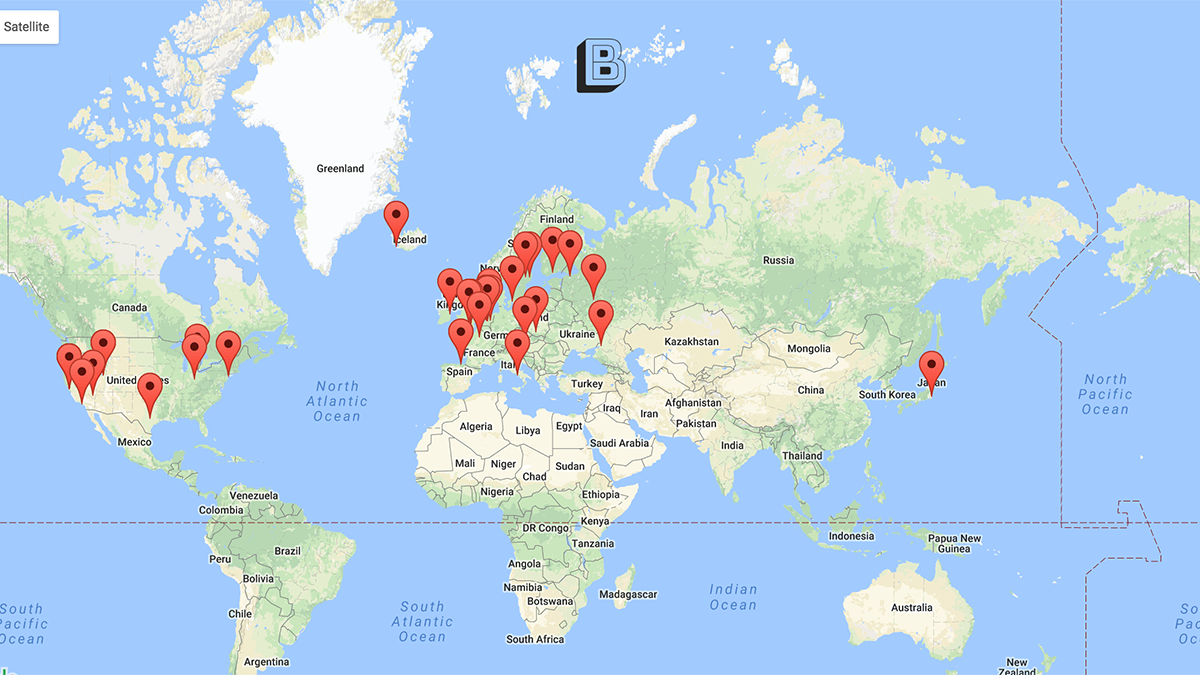
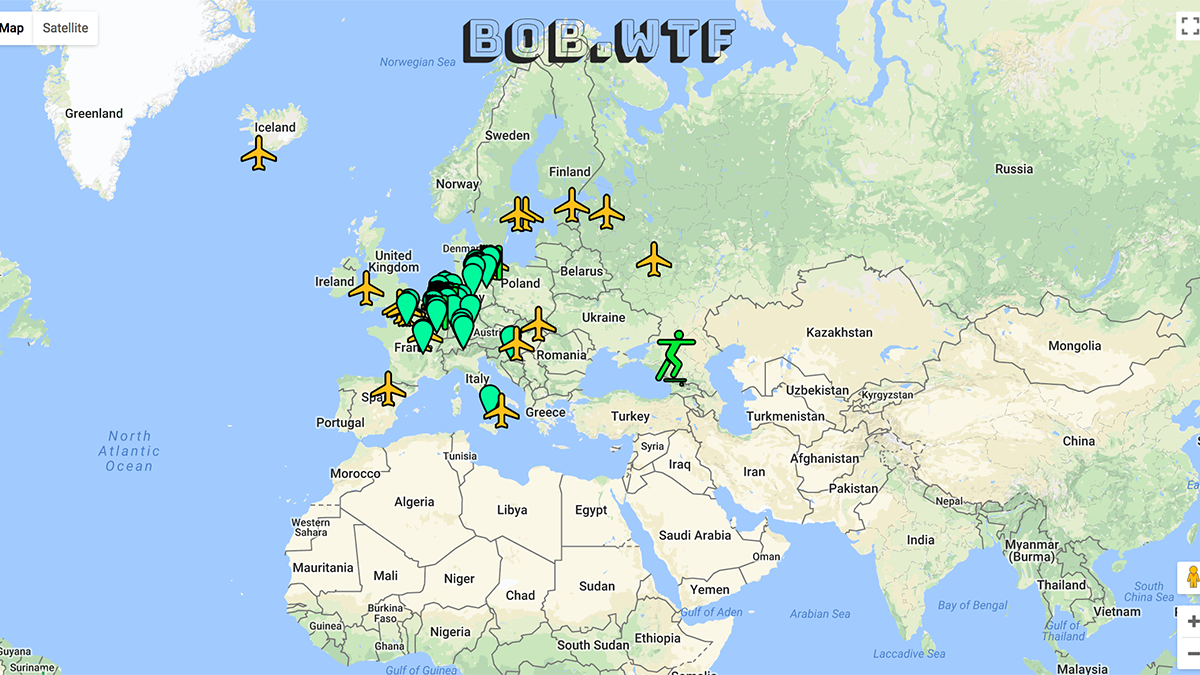
Release a simple first version! 🎇🎇🎇

diff --git a/index.html b/index.html
@@ -48,13 +48,13 @@
         }
         .bigB {
             position: absolute;
[2 lines of base64/hex data omitted]
             background-size: cover;
-            width: 52px;
-            height: 52px;
+            width: 236px;
+            height: 39px;
             left: 50%;
-            margin-left: -26px;
-            top: 2rem; /* padding-ish */
+            margin-left: -118px;
+            top: 1rem; /* padding-ish */
             z-index: 4;
             cursor: pointer;
         }
@@ -120,41 +120,39 @@
     function initMap() {
 
         /**
-         * Point map if possible
-         */
-        if (navigator.geolocation) {
-            navigator.geolocation.getCurrentPosition(function(getPosition){
-                map.setCenter({lat: getPosition.coords.latitude, lng: getPosition.coords.longitude});
-            });
-        }
-
-        /**
          * Load the actual maps
          */
         function loadMaps(){
             var addIcon = {
-                fillOpacity: .6,
-                anchor: new google.maps.Point(0,0),
-                strokeWeight: 0,
-                scale: 1
+                anchor: new google.maps.Point(10,10),
+                strokeWeight: 1.5,
+                fillOpacity: 1,
+                optimized: false
             };
-            $.getJSON("whereWasBob.json", function( data ) {            
+            $.getJSON("http://wherewas.bob.wtf/whereWasBob.json", function( data ) {            
                 data.forEach(function(val) {
-                    if(val.type === "Airport"){
-                        addIcon = {
-                            path: "M48.049 36.31c.523.169.951-.142.951-.692v-3.494c0-.55-.387-1.23-.859-1.512l-18.282-10.895c-.472-.281-.859-.962-.859-1.511v-12.206c0-.55-.168-1.417-.374-1.928 0 0-1.091-2.708-3-3.01-.204-.036-.411-.062-.619-.062h-.01c-.241-.002-.479.028-.713.072l-.216.048-.328.102c-1.588.53-2.406 2.835-2.406 2.835-.184.519-.334 1.393-.334 1.943v12.206c0 .55-.387 1.23-.859 1.512l-18.282 10.894c-.472.282-.859.962-.859 1.512v3.494c0 .55.428.861.951.691l18.098-5.875c.523-.169.951.142.951.692v9.533c0 .55-.36 1.271-.8 1.601l-2.4 1.802c-.44.33-.8 1.051-.8 1.601v2.337c0 .55.433.876.961.724l6.075-1.745c.528-.152 1.394-.152 1.922 0l6.081 1.745c.528.152.961-.174.961-.724v-2.338c0-.55-.36-1.271-.8-1.601l-2.4-1.802c-.439-.33-.8-1.051-.8-1.601v-9.533c0-.55.428-.861.951-.691l18.098 5.876z",
-                            fillColor: '#FF0000'
-                        }
-                    } else if(val.type === "Restaurant"){
-                        addIcon = {
-                            path: "M22 1.932v11.068h-2v-11c0-.552-.448-1-1-1s-1 .448-1 1v11h-2v-11.036c0-1.287-2-1.243-2-.033v11.069h-2v-10.99c0-1.363-2-1.313-2-.054v14.472c0 2.087 2 3.463 4 3.463v26.109c0 4 6 4 6 0v-26.108c2 0 4-1.662 4-3.227v-14.701c0-1.275-2-1.226-2-.032zm9 3.068v25h2v16c0 4 7 4 7 0v-41c0-5-9-5-9 0z",
-                            fillColor: '#FF0000'
-                        }
+                    console.log("Create: " + val.type);
+                    if(val.now === true){
+                        addIcon.path = "M30.148 48.974c.748 0 1.354-.63 1.354-1.411 0-.772-.605-1.399-1.354-1.399-.75 0-1.355.627-1.355 1.399 0 .781.605 1.411 1.355 1.411zm-2.339-40.57c1.988 0 3.604-1.663 3.604-3.708-.001-2.044-1.616-3.696-3.604-3.696-1.987 0-3.604 1.652-3.604 3.696 0 2.045 1.617 3.708 3.604 3.708zm-19.543 32.394c-.17.328-.266.7-.266 1.103 0 1.302 1.032 2.364 2.307 2.364.915 0 1.701-.547 2.073-1.335l7.861-13.9-3.264-3.358-8.711 15.126zm17.033-.624c-.371.788-1.158 1.336-2.072 1.336-1.265 0-2.295-1.062-2.295-2.364 0-.404.095-.775.266-1.104l3.423-6.189-6.676-6.826c-2.562-2.646-.733-5.511-.733-5.511l3.593-6.529-9.53.011c-1.052 0-1.892-.933-1.892-2.005-.001-1.061.839-1.993 1.891-1.993h28.843c1.043 0 1.883.934 1.883 2.005 0 1.072-.84 1.995-1.883 1.995h-11.002l-5.25 9.458 5.346 5.435c1.873 1.849.66 3.926.66 3.926l-4.572 8.355zm8.701 3.826c0 .553-.447 1-1 1h-17c-.552 0-1-.447-1-1 0-.553.448-1 1-1h17c.553 0 1 .447 1 1z";
+                        addIcon.fillColor = '#1ce742';
+                        addIcon.scale = 1;
+                        addIcon.zIndex = 10;
+                        map.setCenter({lat: val.lat, lng: val.lng});
+                    } else if(val.type.indexOf("Airport") !== -1){
+                        addIcon.path = "M48.049 36.31c.523.169.951-.142.951-.692v-3.494c0-.55-.387-1.23-.859-1.512l-18.282-10.895c-.472-.281-.859-.962-.859-1.511v-12.206c0-.55-.168-1.417-.374-1.928 0 0-1.091-2.708-3-3.01-.204-.036-.411-.062-.619-.062h-.01c-.241-.002-.479.028-.713.072l-.216.048-.328.102c-1.588.53-2.406 2.835-2.406 2.835-.184.519-.334 1.393-.334 1.943v12.206c0 .55-.387 1.23-.859 1.512l-18.282 10.894c-.472.282-.859.962-.859 1.512v3.494c0 .55.428.861.951.691l18.098-5.875c.523-.169.951.142.951.692v9.533c0 .55-.36 1.271-.8 1.601l-2.4 1.802c-.44.33-.8 1.051-.8 1.601v2.337c0 .55.433.876.961.724l6.075-1.745c.528-.152 1.394-.152 1.922 0l6.081 1.745c.528.152.961-.174.961-.724v-2.338c0-.55-.36-1.271-.8-1.601l-2.4-1.802c-.439-.33-.8-1.051-.8-1.601v-9.533c0-.55.428-.861.951-.691l18.098 5.876z";
+                        addIcon.fillColor = '#ffbf35';
+                        addIcon.scale = 0.62;
+                        addIcon.zIndex = 8;
+                    } else if(val.type.indexOf("Restaurant") !== -1){
+                        addIcon.path = "M22 1.932v11.068h-2v-11c0-.552-.448-1-1-1s-1 .448-1 1v11h-2v-11.036c0-1.287-2-1.243-2-.033v11.069h-2v-10.99c0-1.363-2-1.313-2-.054v14.472c0 2.087 2 3.463 4 3.463v26.109c0 4 6 4 6 0v-26.108c2 0 4-1.662 4-3.227v-14.701c0-1.275-2-1.226-2-.032zm9 3.068v25h2v16c0 4 7 4 7 0v-41c0-5-9-5-9 0z";
+                        addIcon.fillColor = '#1ce742';
+                        addIcon.scale = 0.62;
+                        addIcon.zIndex = 2;
                     } else {
-                        addIcon = {
-                            path: "M25.015 2.4c-7.8 0-14.121 6.204-14.121 13.854 0 7.652 14.121 32.746 14.121 32.746s14.122-25.094 14.122-32.746c0-7.65-6.325-13.854-14.122-13.854z",
-                            fillColor: '#FF0000'
-                        }
+                        addIcon.path = "M25.015 2.4c-7.8 0-14.121 6.204-14.121 13.854 0 7.652 14.121 32.746 14.121 32.746s14.122-25.094 14.122-32.746c0-7.65-6.325-13.854-14.122-13.854z";
+                        addIcon.fillColor = '#22f79f';
+                        addIcon.scale = 0.62;
+                        addIcon.zIndex = 1;
                     }
                     var marker = new google.maps.Marker({
                         position: {lat: val.lat, lng: val.lng},
@@ -176,7 +174,7 @@
             });
         } else {
             var map = new google.maps.Map(document.getElementById('map'), {
-                zoom: 2,
+                zoom: 3,
                 center: {lat: 52.3702, lng: 4.8952}
             });
         }

diff --git a/whereWasBob.py b/whereWasBob.py
@@ -5,21 +5,27 @@
 import sys, urllib.request, json
 
 longLatArray = []
+nowHere = True
 
 def getList(offSet):
     print("Load with offset: " + str(offSet))
     token = sys.argv[1]
-    with urllib.request.urlopen("https://api.foursquare.com/v2/users/23018068/checkins?offset=" + str(offSet) + "&limit=250&oauth_token=" + token + "&v=20170908") as url:
+    with urllib.request.urlopen("https://api.foursquare.com/v2/users/23018068/checkins?sort=newestfirst&offset=" + str(offSet) + "&limit=250&oauth_token=" + token + "&v=20170908") as url:
         mainData = json.loads(url.read().decode())
         for data in mainData['response']['checkins']['items']:
             if "venue" in data:
                 if len(data["venue"]["categories"]) != 0:
-                    longLatArray.append({
-                        "name": data["venue"]["name"],
-                        "lng": data["venue"]["location"]["lng"],
-                        "lat": data["venue"]["location"]["lat"],
-                        "type": data["venue"]["categories"][0]["name"]
-                    })
+                    if data["venue"]["categories"][0]["name"] != "Home (private)":
+                        global nowHere
+                        longLatArray.append({
+                            "name": data["venue"]["name"],
+                            "lng": data["venue"]["location"]["lng"],
+                            "lat": data["venue"]["location"]["lat"],
+                            "type": data["venue"]["categories"][0]["name"],
+                            "now": nowHere
+                        })
+                        nowHere = False
+
     if mainData["response"]["checkins"]["count"] - offSet > 0:
         getList(offSet + 250)
 
